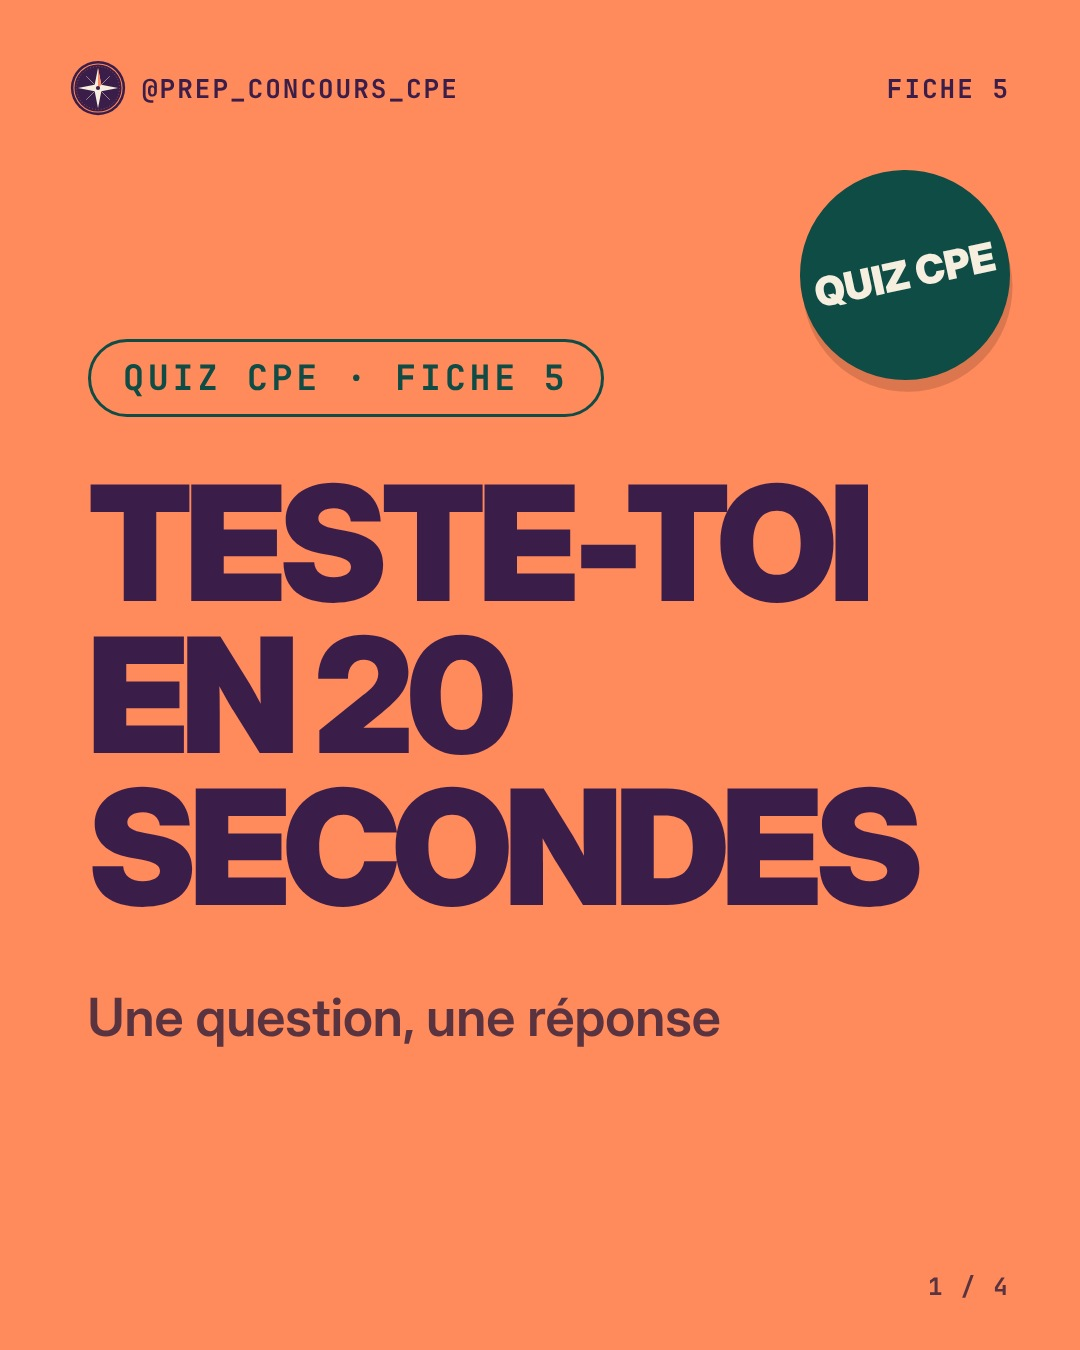
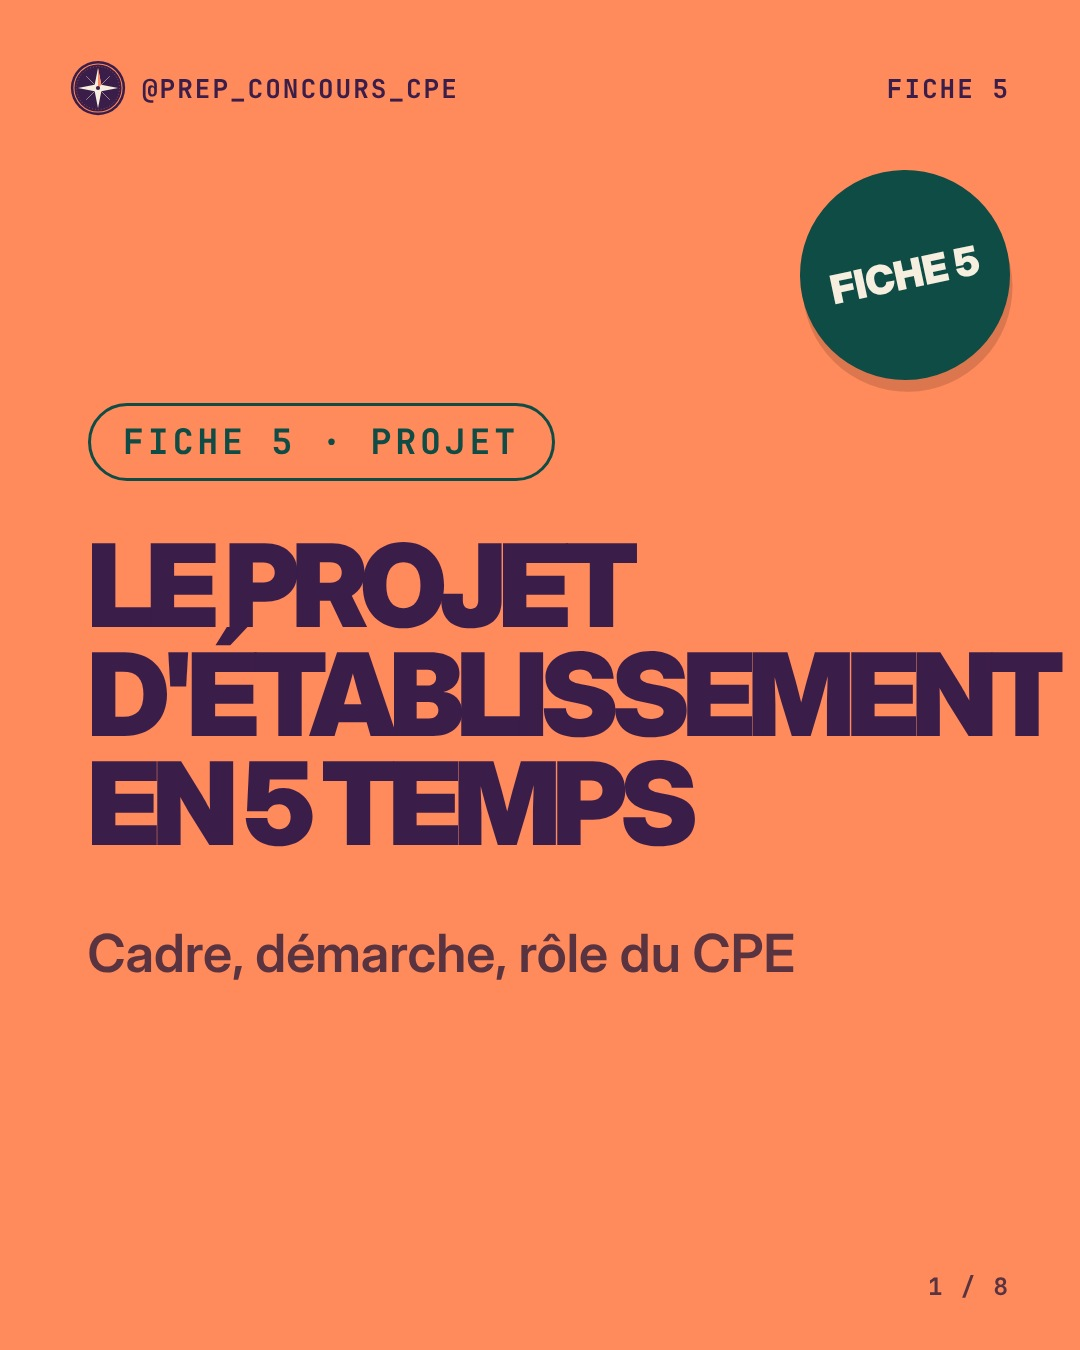
Carrousel du 21 nov : projet d'établissement enrichi (8 images, brouillon)
Claude-Session: https://claude.ai/code/session_01FvtqKV3Y2HcrqP55c5Avm7

Changed region(s): [[0.0611, 0.2489, 1.0, 0.7778], [0.7333, 0.1556, 0.9167, 0.2489], [0.9167, 0.9333, 0.9472, 0.9644]]

diff --git a/posts/auto/2026-11-21/LEGENDE.md b/posts/auto/2026-11-21/LEGENDE.md
@@ -1,3 +1,3 @@
-Quiz CPE : pour quelle durée le projet d'établissement est-il adopté ? A, B ou C ? Réponds en commentaire. Tout sur le projet d'établissement dans la fiche 5 de Prep'CPE. Lien en bio.
+Le projet d'établissement en 5 temps, pour l'écrit comme pour l'oral : diagnostic, priorités, objectifs et actions, mise en œuvre, évaluation. Le CPE (compétences M1, C3, C4, C8) porte le volet éducatif avec le chef d'établissement et l'équipe. Candidats et candidates : quelle serait votre première priorité éducative dans un collège où le volet éducatif n'est qu'une liste d'actions ? Répondez en commentaire. Tout est dans la fiche 5 de Prep'CPE, gratuite. Lien en bio.
 
-#concourscpe #cpe2027 #prepaconcours #conseillerprincipaldeducation #viescolaire #quiz #projetdetablissement
+#concourscpe #cpe2027 #prepaconcours #conseillerprincipaldeducation #viescolaire #projetdetablissement #eple
